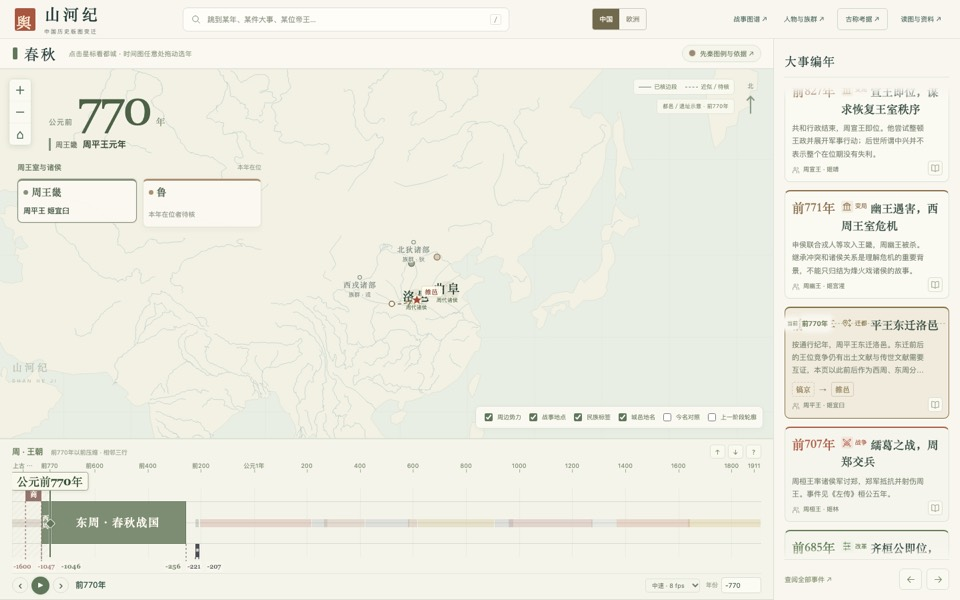
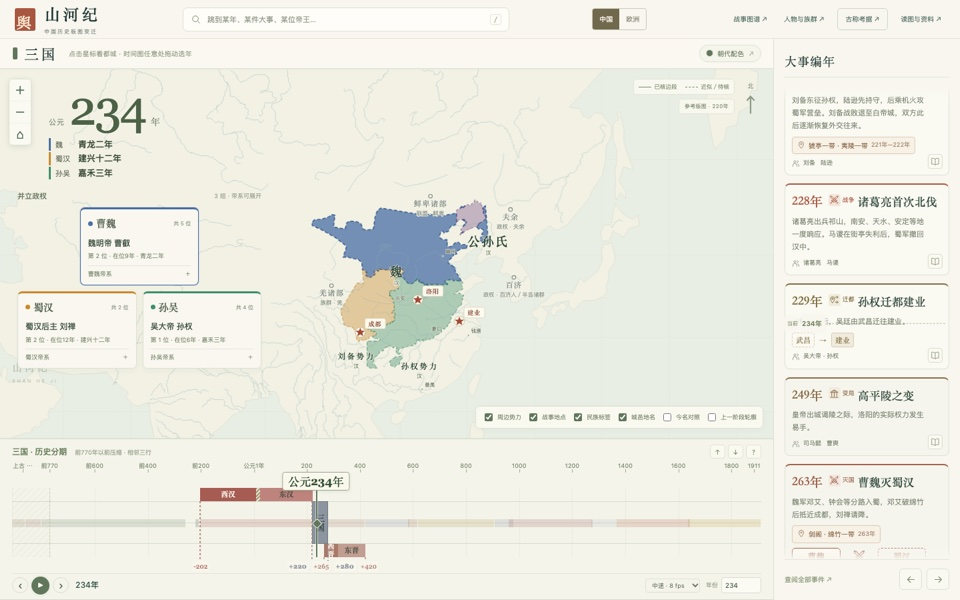
Home: seal reads 贝; 山河纪 tile shows the Three Kingdoms map (234 CE)
Claude-Session: https://claude.ai/code/session_018L7Z6QU8EHmx4vNDHa8gjZ

diff --git a/index.html b/index.html
@@ -79,7 +79,7 @@ footer{display:flex;justify-content:space-between;gap:12px;font-size:12px;color:
 <body>
 <div class="bg" role="img" aria-label="咕噜写日记：戴官帽的柴犬史官在窗边书桌上写日记"></div>
 <main class="page">
-  <div class="top"><span class="seal" aria-hidden="true">川</span>CHUANBEI.DEV</div>
+  <div class="top"><span class="seal" aria-hidden="true">贝</span>CHUANBEI.DEV</div>
 
   <section class="hero">
     <h1>川贝的小站</h1>
@@ -112,7 +112,7 @@ footer{display:flex;justify-content:space-between;gap:12px;font-size:12px;color:
       <h2 class="label">网页</h2>
       <div class="row">
         <a class="tile" href="https://shanheji.chuanbei.dev/" style="--accent:var(--sage)">
-          <img class="shot" src="shanheji.jpg" alt="山河纪页面截图" width="960" height="600"><div class="head"><div class="name"><b>山河纪</b><span>历史地图</span></div></div>
+          <img class="shot" src="shanheji.jpg?v=sanguo" alt="山河纪：公元234年的三国版图" width="960" height="600"><div class="head"><div class="name"><b>山河纪</b><span>历史地图</span></div></div>
           <p>从夏商周到清末，沿真实年份走过王朝与疆域。</p>
           <span class="go">进入 →</span>
         </a>
